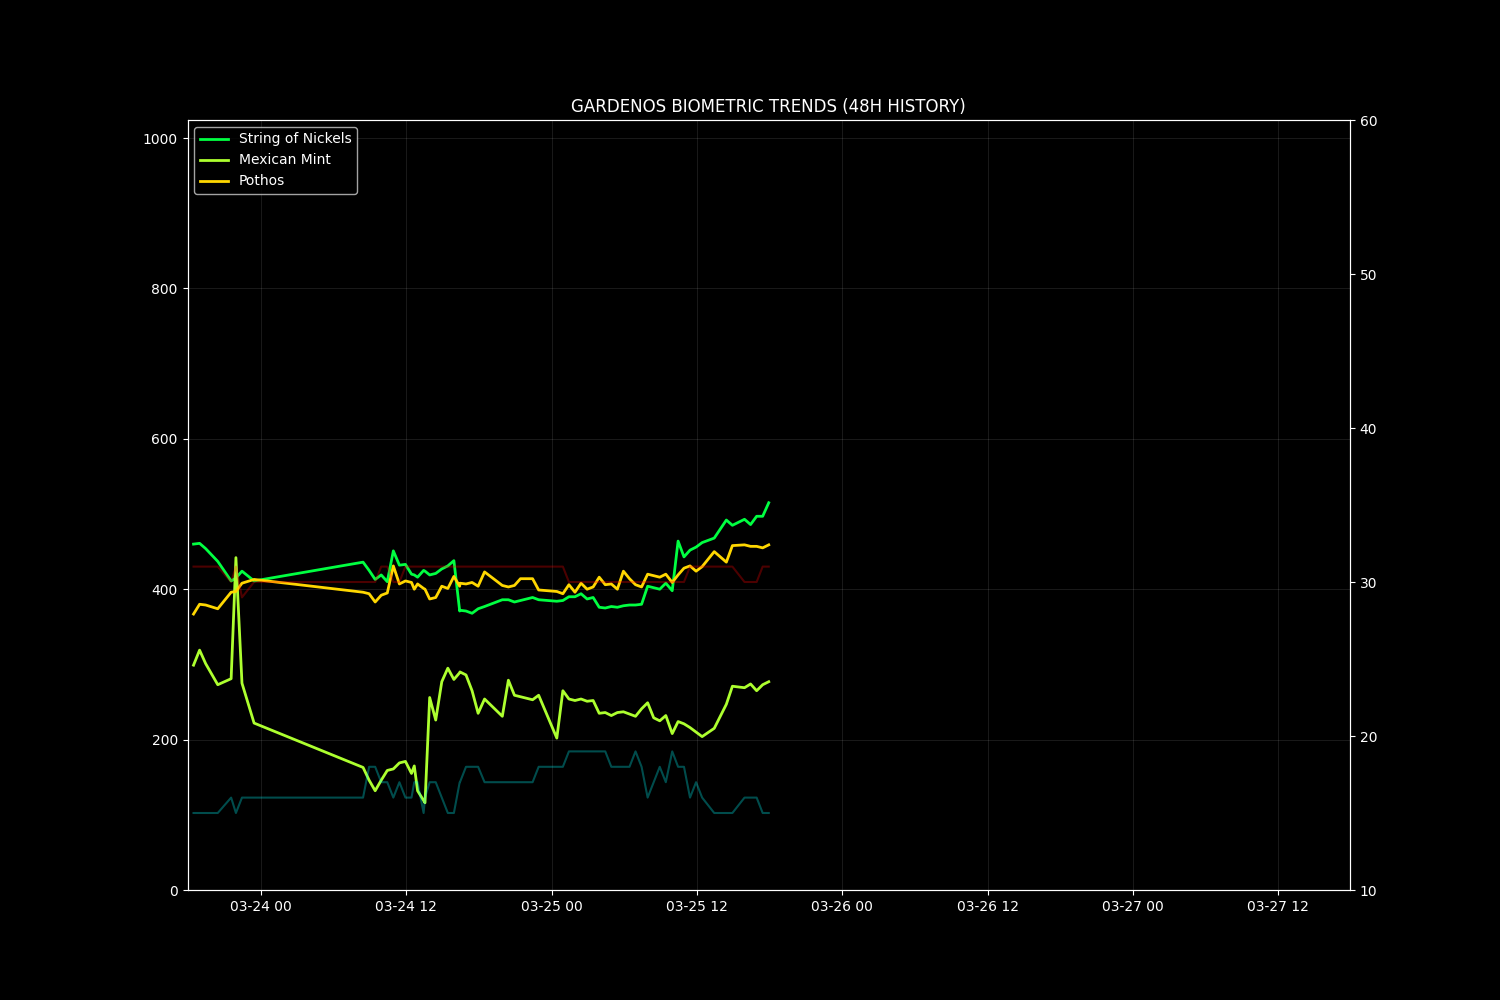
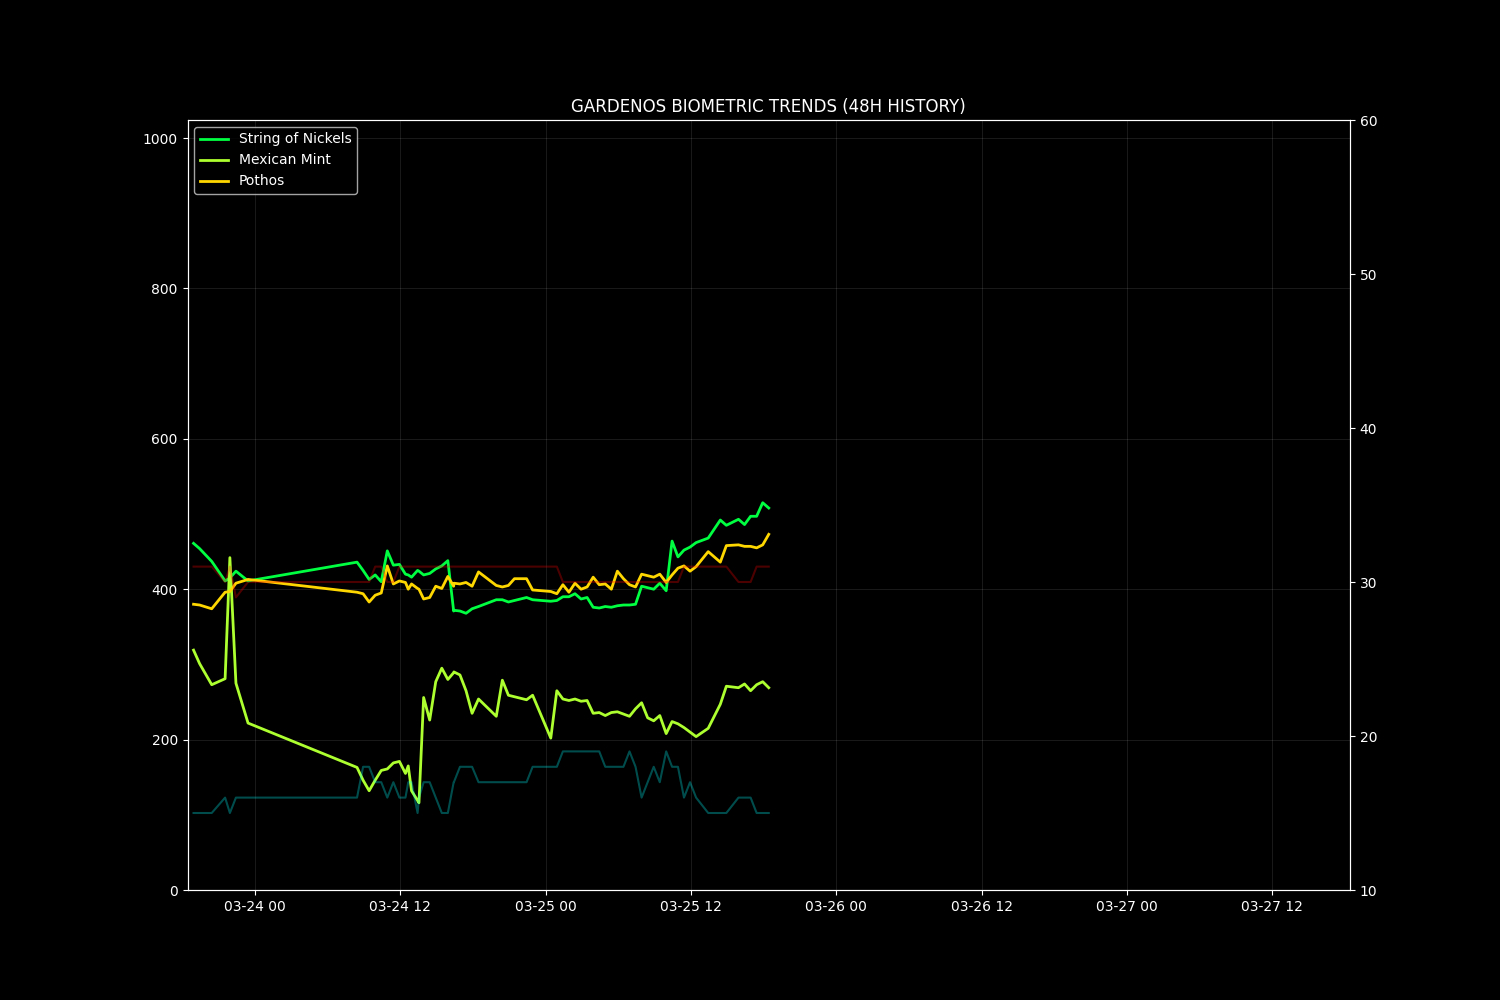
Warden Cycle: 2026-03-25 18:25:29

diff --git a/docs/data/ledger.md b/docs/data/ledger.md
@@ -292,3 +292,14 @@ Action: No immediate watering required. Continue misting schedule. Monitor p4's 
 **Weather Alignment**: Forecast: 26.3°C, 84% humidity, mist. Current: 31.0°C, 15.0% humidity. Plants show good turgidity, indicating effective water retention. Forecast mist and higher humidity are favorable.
 
 **The Warden's Decision**: Verdict: All plants are healthy and well-hydrated. No intervention required. Action: Continue standard monitoring. Prepare for light misting if humidity does not rise as forecasted.
+## 2026-03-25 18:03
+
+**Vitality Pulse**: p1: 🟢 NOMINAL (65% wet) [visual: turgid]; p2: 🟢 NOMINAL (69% wet) [visual: turgid]; p3: 🟢 NOMINAL (61% wet) [visual: turgid]; p4: 🟢 NOMINAL (69% wet) [shared sensor]
+
+**The Biome Discovery**: Soil surface shows no crusting, moisture appears even. Shadow angles consistent with late afternoon light. Observed a single loose strand of the sensor wire for p2/p4 (A5) resting lightly on the soil surface near the pot rim, not causing physical stress but worth noting.
+
+**Growth Momentum**: Apical Leans: No significant apical lean observed in p1-p3; all exhibit upright growth. Stasis Points: No new stasis points; growth points remain active. (mm-deltas not measured outside 06:00 AM)
+
+**Weather Alignment**: Forecast: 26.3°C, 84% humidity, mist. Current: 31.0°C, 15.0% humidity. Plants show good turgidity, indicating effective water retention. However, the discrepancy between current low humidity and forecast mist warrants vigilance; if humidity does not rise as expected, preemptive misting may be required.
+
+**The Warden's Decision**: Verdict: Anomaly detected: previously noted wilting leaf on p4 is now absent (negative space). All other plants remain healthy. Action: Monitor p4 for any further leaf loss; consider light misting to increase ambient humidity if forecast mist does not materialize.

diff --git a/docs/data/observer_context.md b/docs/data/observer_context.md
@@ -1,21 +1,21 @@
 # 📝 Garden Observer Context
-**Generated:** 2026-03-25 16:58:01
+**Generated:** 2026-03-25 17:58:01
 
 ## 1. 🌡 Recent Telemetry (Last 12 Readings)
 ```csv
 timestamp,temp,hum,light,p1,p2,p3
-2026-03-25 15:55:29,30.0,16.0,758,493.0,269.0,459.0
-2026-03-25 16:25:28,30.0,16.0,807,486.0,274.0,457.0
 2026-03-25 16:55:34,30.0,16.0,826,497.0,265.0,457.0
+2026-03-25 17:25:28,31.0,15.0,795,497.0,273.0,455.0
+2026-03-25 17:55:33,31.0,15.0,820,515.0,277.0,459.0
 
 ```
 
 ## 2. 📊 Computed Metrics (Last 12 Calculations)
 ```csv
 timestamp,vpd,p1_pct,p1_slope,p2_pct,p2_slope,p3_pct,p3_slope,p4_pct,p4_slope,p5_pct,p5_slope,p6_pct,p6_slope,p1_is_dry,p2_is_dry,p3_is_dry
-2026-03-25 15:55:29,3.564,71.8,,72.5,,61.3,,,,,,,,False,False,False
-2026-03-25 16:25:28,3.564,73.9,,70.4,,61.8,,,,,,,,False,False,False
 2026-03-25 16:55:34,3.564,70.6,,74.2,,61.8,,,,,,,,False,False,False
+2026-03-25 17:25:28,3.819,70.6,,70.8,,62.4,,,,,,,,False,False,False
+2026-03-25 17:55:33,3.819,65.0,,69.1,,61.3,,,,,,,,False,False,False
 
 ```
 
